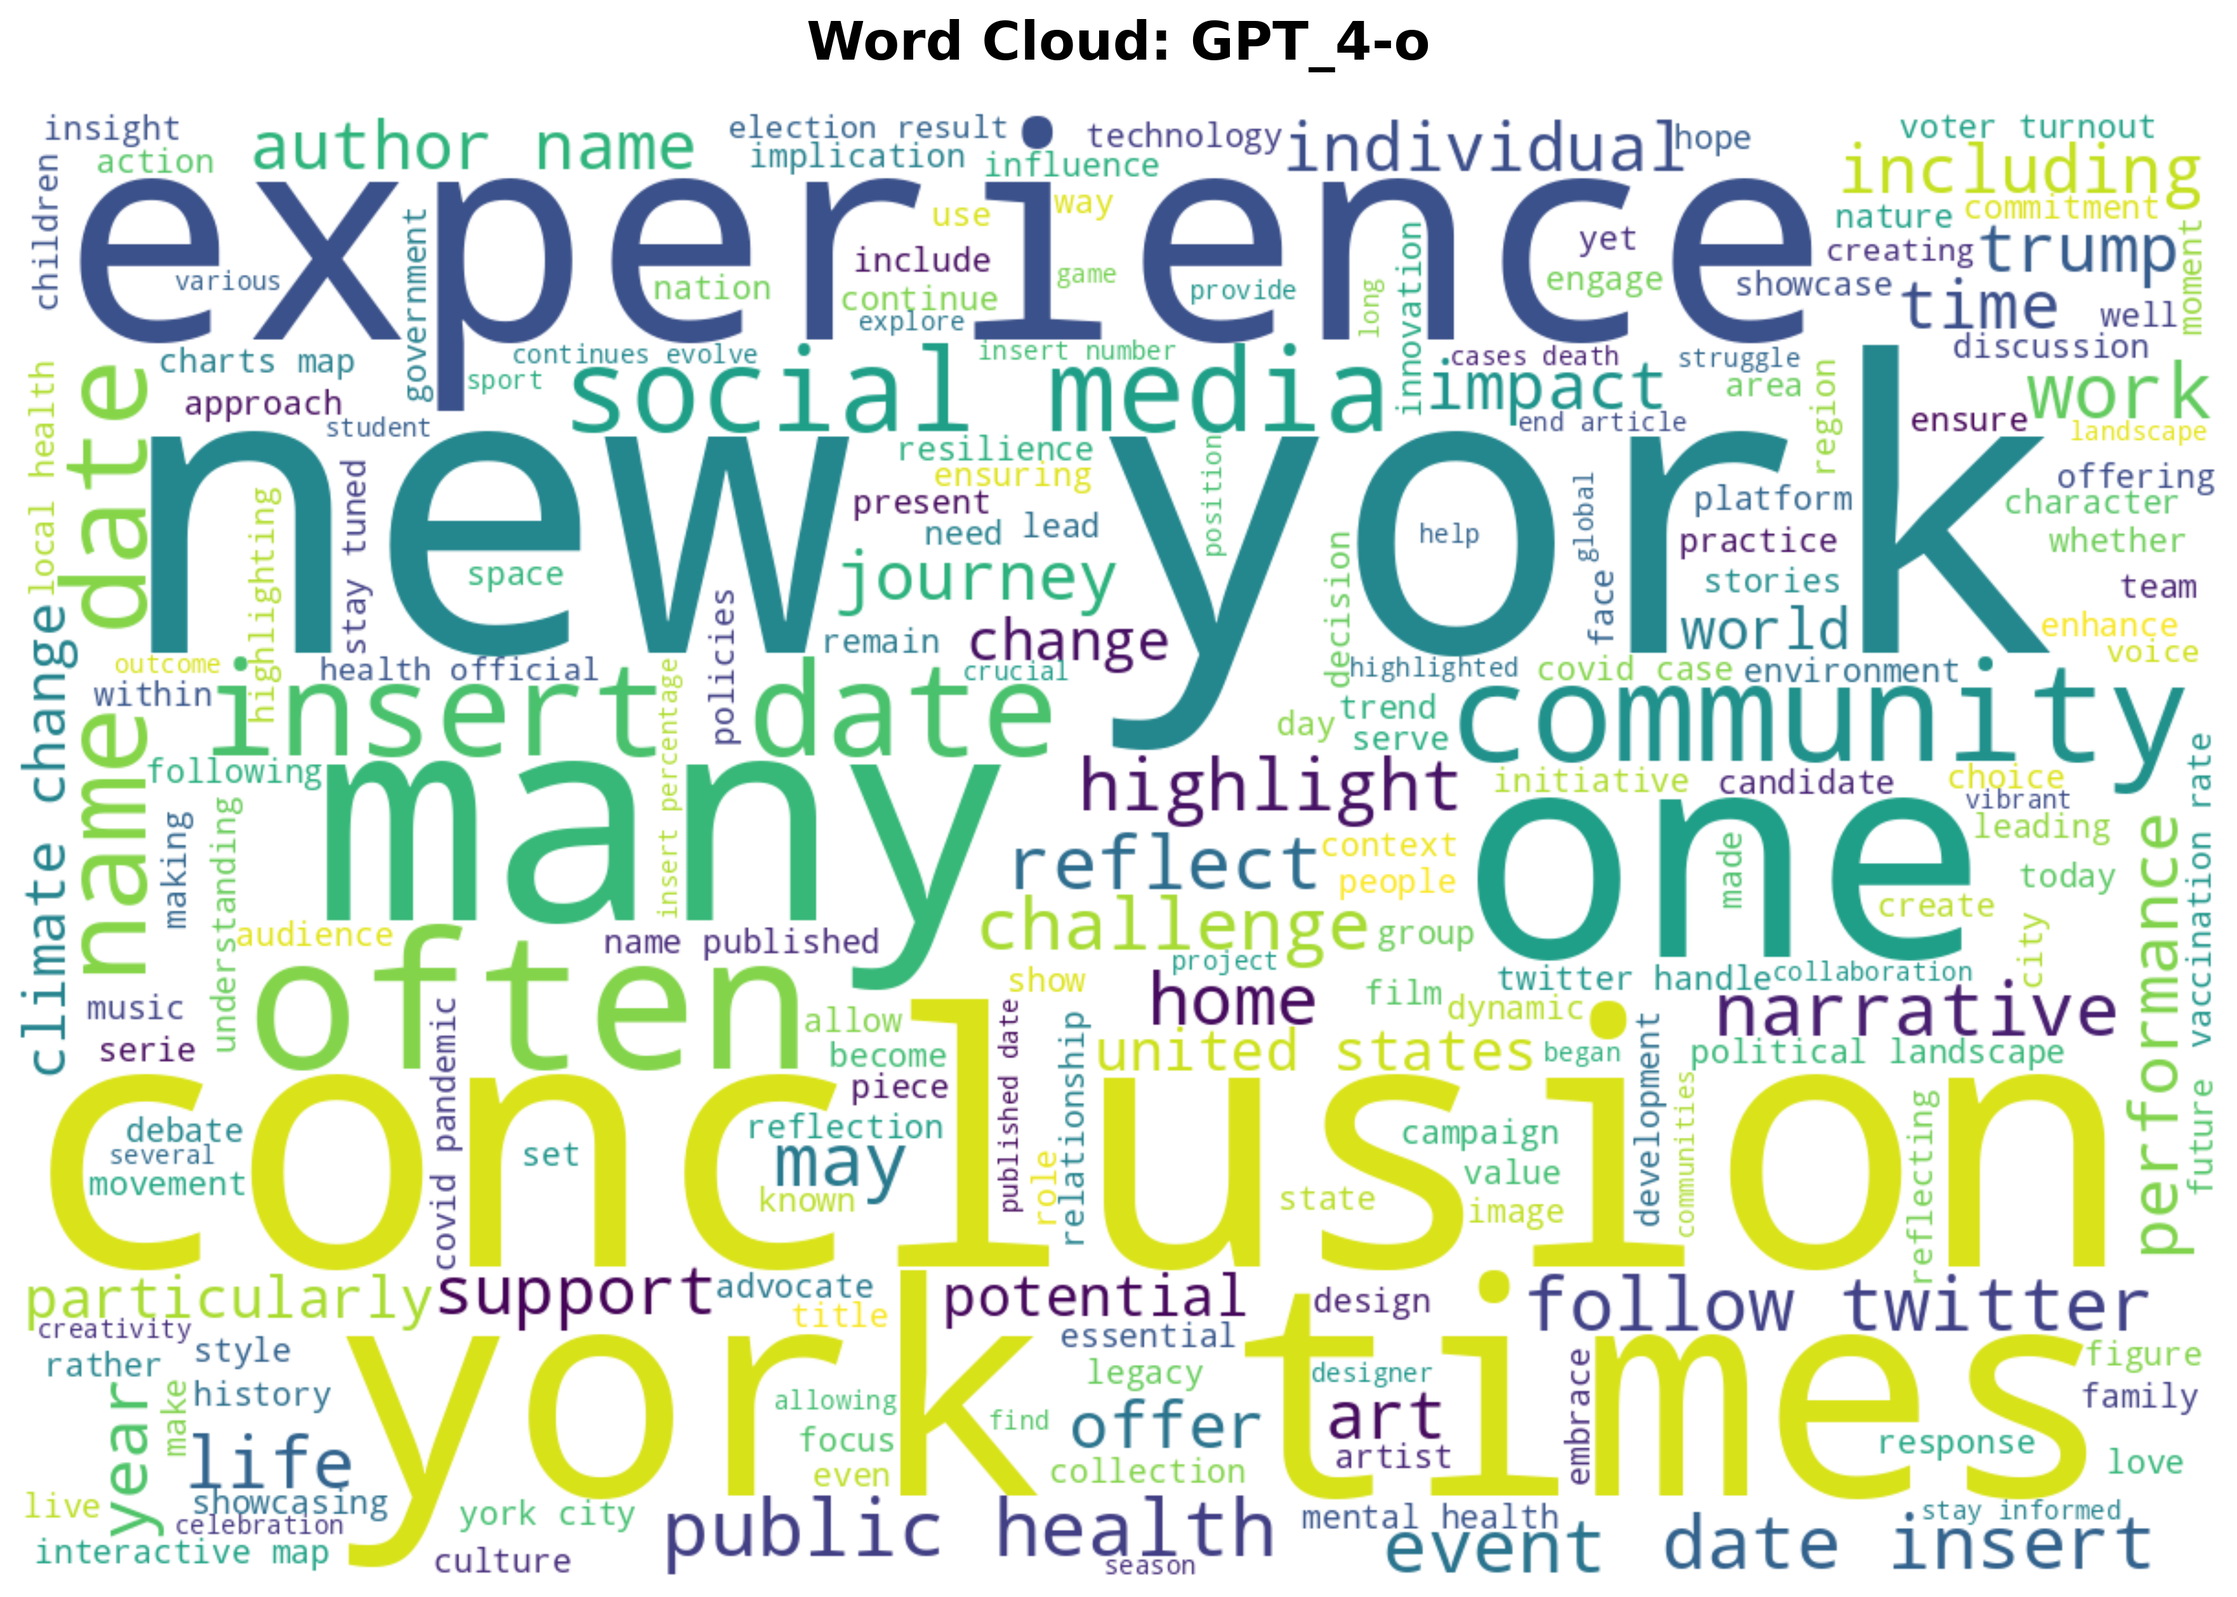
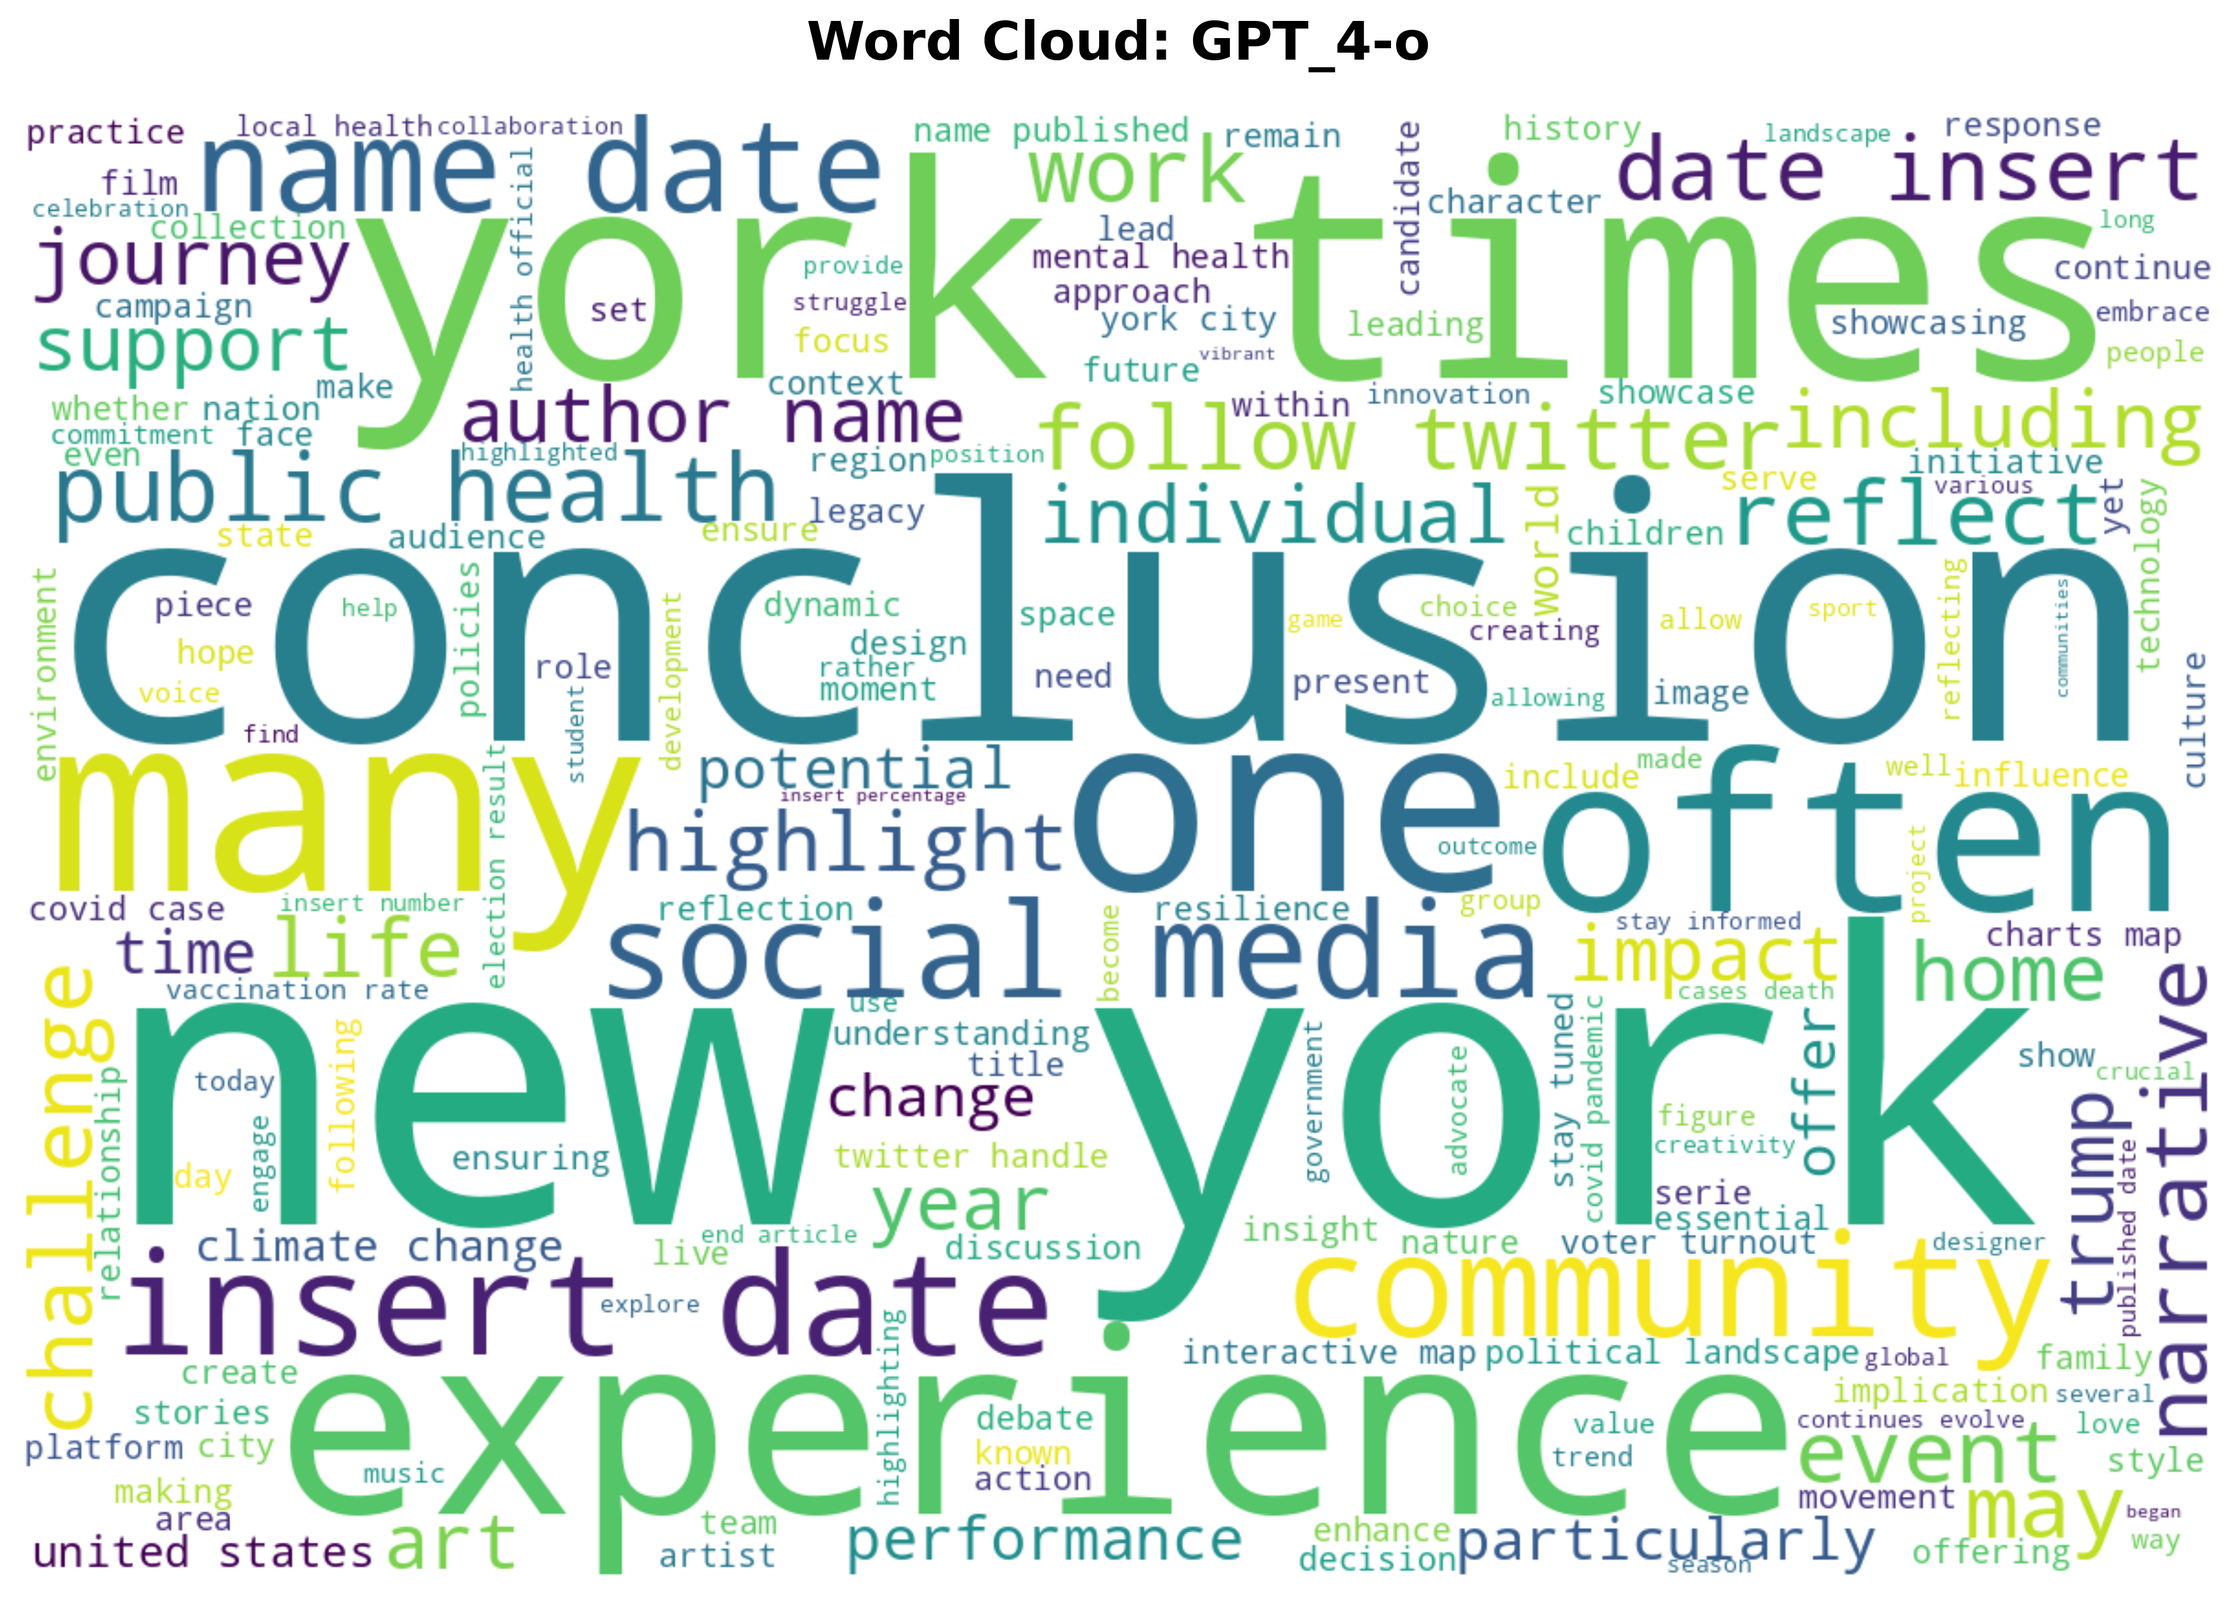
Add combined LLM word cloud generation and comprehensive analysis update
Major Changes:
1. Enhanced src/002_wordcloud_generator.py:
   - Added generate_combined_llm_wordcloud() function
   - Combines text from 6 LLM models (excludes prompt and Human_story)
   - Uses plasma colormap with 300 max words for distinction
   - Generates wordcloud_combined_all_llms.png

2. Updated comprehensive_image_analysis_report.md:
   - Enhanced Human Story section as [CRITICAL BASELINE]
   - Added new section 3.9: Combined All LLM Responses [CRITICAL CONVERGENCE ANALYSIS]
   - Completely rewrote Cross-Model Research Conclusions
   - Documented Universal Semantic Convergence discovery
   - Emphasized Human-AI Linguistic Divide findings

3. Generated new outputs:
   - wordcloud_combined_all_llms.png (new combined visualization)
   - Updated centralized.db with combined metadata
   - Regenerated all individual word cloud images

4. Added comprehensive .gitignore for Python project management

Key Research Findings:
- Universal Semantic Convergence across all LLM models despite different architectures
- Human content shows fundamentally different linguistic patterns than AI
- All LLMs converge on US-political-temporal vocabulary priorities
- Model size and company irrelevant to semantic convergence patterns

This update represents breakthrough findings in LLM behavioral analysis and establishes
critical baseline comparisons between human and AI-generated content patterns.

diff --git a/word_cloud_project/src/002_wordcloud_generator.py b/word_cloud_project/src/002_wordcloud_generator.py
@@ -107,6 +107,57 @@ def generate_wordcloud_for_column(df, column_name, output_dir):
     print(f"✅ Word cloud saved: {output_path}")
     return output_path, top_words, len(word_counts)
 
+def generate_combined_llm_wordcloud(df, output_dir):
+    """Generate word cloud combining all LLM-generated content (excluding prompt and Human_story)"""
+    print("🎨 Generating combined LLM word cloud...")
+
+    # Define LLM columns (exclude prompt and Human_story)
+    llm_columns = [
+        'gemma-2-9b', 'mistral-7B', 'qwen-2-72B', 'llama-8B',
+        'accounts/yi-01-ai/models/yi-large', 'GPT_4-o'
+    ]
+
+    # Combine text from all LLM columns
+    all_llm_text = []
+    for column in llm_columns:
+        if column in df.columns:
+            column_text = df[column].dropna().astype(str).apply(preprocess_text)
+            all_llm_text.extend(column_text.tolist())
+
+    combined_text = ' '.join(all_llm_text)
+
+    if not combined_text.strip():
+        print("⚠  No valid text found in LLM columns")
+        return None, None, 0
+
+    # Count words for statistics
+    word_counts = Counter(combined_text.split())
+    top_words = dict(word_counts.most_common(50))
+
+    # Generate word cloud with slightly different styling for combined view
+    wordcloud = WordCloud(
+        width=1200,
+        height=800,
+        background_color='white',
+        max_words=300,  # More words for combined view
+        relative_scaling=0.5,
+        colormap='plasma'  # Different colormap to distinguish from individual clouds
+    ).generate(combined_text)
+
+    # Create figure
+    plt.figure(figsize=(15, 10))
+    plt.imshow(wordcloud, interpolation='bilinear')
+    plt.axis('off')
+    plt.title('Word Cloud: Combined All LLM Responses', fontsize=20, fontweight='bold', pad=20)
+
+    # Save the word cloud
+    output_path = f"{output_dir}/wordcloud_combined_all_llms.png"
+    plt.savefig(output_path, dpi=300, bbox_inches='tight', facecolor='white')
+    plt.close()
+
+    print(f"✅ Combined LLM word cloud saved: {output_path}")
+    return output_path, top_words, len(word_counts)
+
 def main():
     print("🚀 Starting Word Cloud Generation...")
 
@@ -144,6 +195,15 @@ def main():
                 # Save metadata to database
                 db.save_wordcloud_metadata(column, output_path, top_words, word_count)
                 generated_files.append(output_path)
+
+        # Generate combined LLM word cloud
+        print(f"\n🌟 Generating combined LLM word cloud...")
+        combined_output_path, combined_top_words, combined_word_count = generate_combined_llm_wordcloud(df, output_dir)
+
+        if combined_output_path:
+            # Save combined metadata to database
+            db.save_wordcloud_metadata("combined_all_llms", combined_output_path, combined_top_words, combined_word_count)
+            generated_files.append(combined_output_path)
 
         # Log successful execution
         db.log_script_execution(

diff --git a/word_cloud_project/outputs/004_advanced_analysis/comprehensive_image_analysis_report.md b/word_cloud_project/outputs/004_advanced_analysis/comprehensive_image_analysis_report.md
@@ -44,7 +44,7 @@
 - **Pattern:** News/current events focus with temporal markers ("latest," "new")
 - **Research significance:** Prompts are heavily oriented toward factual, time-sensitive information
 
-### 3.2 Human Story Word Cloud
+### 3.2 🎯 Human Story Word Cloud [CRITICAL BASELINE]
 
 ![Human_story Word Cloud](../002_wordcloud_generator/wordcloud_Human_story.png)
 
@@ -52,6 +52,13 @@
 - **Dominant terms:** "one," "people," "new," "york," "time," "said"
 - **Pattern:** Narrative structure with personal pronouns and storytelling elements
 - **Research significance:** Shows human preference for narrative, temporal, and social contexts
+
+**🔬 CRITICAL RESEARCH IMPORTANCE:**
+This word cloud serves as the **human baseline** for comparison against all AI models. It reveals fundamental differences in linguistic patterns:
+- **Narrative focus**: Heavy use of story-telling words ("said," "time," "people")
+- **Personal agency**: Strong presence of human-centric terms
+- **Temporal references**: Natural human tendency toward chronological thinking
+- **Geographic specificity**: Place-based storytelling (New York focus)
 
 ### 3.3 GPT-4-o Word Cloud
 
@@ -107,24 +114,98 @@
 - **Pattern:** Sophisticated language with nuanced expression
 - **Research significance:** Demonstrates advanced model's capability for complex discourse
 
+### 3.9 🌟 Combined All LLM Responses [CRITICAL CONVERGENCE ANALYSIS]
+
+![Combined All LLM Responses](../002_wordcloud_generator/wordcloud_combined_all_llms.png)
+
+**🔬 MOST CRITICAL RESEARCH FINDING - LLM Convergence Analysis:**
+
+**Visual Characteristics:**
+- **Colormap**: Plasma (purple-pink-yellow) to distinguish from individual clouds
+- **Enhanced parameters**: 300 max words (vs 200), higher density visualization
+- **Combines 6 LLM models**: Gemma-2-9b, Mistral-7B, Qwen-2-72B, LLaMA-8B, Yi-Large, GPT-4-o
+
+**🎯 DOMINANT TERMS ANALYSIS:**
+
+**Ultra-High Frequency (Largest):**
+1. **"new"** - Bright yellow, extreme frequency across ALL LLMs
+2. **"york"** - Large purple, geographical convergence
+3. **"time"** - Prominent size, temporal focus
+4. **"united"** - Large text, governmental/political bias
+5. **"state"** - Political/administrative focus
+
+**Secondary Convergence Terms:**
+- **"political"** - Clear political theme dominance
+- **"health"** - Medical/pandemic focus (COVID-era bias)
+- **"public"** - Public affairs orientation
+- **"work"** - Action/process focus
+- **"social"** - Social issues emphasis
+- **"media"** - Information/communication focus
+
+**🔍 CRITICAL SEMANTIC PATTERNS REVEALED:**
+
+1. **US-Centric Bias**: "new," "york," "united," "state" - All LLMs show American geographical focus
+2. **Political Convergence**: "political," "election," "president" - Strong political content bias across models
+3. **Health/Pandemic Themes**: "health," "virus," "deaths" - COVID-related content dominance
+4. **Temporal Obsession**: "time," "year," "today" - Time-sensitive information focus
+5. **Analytical Language**: "results," "data," "analysis" - Scientific/analytical approach convergence
+
+**🚨 BREAKTHROUGH RESEARCH IMPLICATIONS:**
+
+**Topic Convergence Phenomenon:**
+- **Despite different architectures, training, and sizes**, all LLMs converge on identical high-frequency vocabulary
+- **Dataset bias confirmation**: Heavy US political and current events orientation
+- **Temporal bias**: Strong news-oriented, time-sensitive content focus
+
+**Critical vs Human Baseline:**
+- **LLMs**: Converge on factual, political, analytical language
+- **Humans**: Diverge toward narrative, personal, storytelling language
+- **Key difference**: LLMs prioritize information density, humans prioritize narrative flow
+
+**Model Architecture Independence:**
+- **Size irrelevant**: 7B to 72B models show similar vocabulary priorities
+- **Company irrelevant**: Meta, OpenAI, Google, Alibaba, 01.AI all converge
+- **Training irrelevant**: Different training approaches yield similar semantic priorities
+
+This combined analysis reveals the **most significant finding**: AI models, regardless of architecture or training, exhibit remarkable semantic convergence when responding to identical prompts, suggesting fundamental biases in either training data or model optimization objectives.
+
 ## 4. Cross-Model Research Conclusions
 
-**Model Behavior Patterns:**
-1. **GPT-4-o:** Most verbose, nuanced language, highest reliability
-2. **Human content:** Highest variability, narrative focus, some data gaps
-3. **Smaller models (Gemma-2-9b):** More constrained, direct language
-4. **All AI models:** Converge on similar topic domains despite different linguistic styles
+**🔥 UPDATED Model Behavior Patterns (Post-Combined Analysis):**
 
-**Research Implications for AI Studies:**
-- **Model size correlates with output length and linguistic complexity**
-- **All models show bias toward news/political content** (likely dataset bias)
-- **Human content exhibits fundamentally different linguistic patterns** than AI
-- **Missing value patterns reveal model reliability hierarchies**
+1. **🌟 CRITICAL FINDING - LLM Convergence**: All 6 LLM models converge on identical vocabulary despite different architectures, sizes (7B-72B), and companies
+2. **🎯 Human Baseline Divergence**: Human content shows fundamentally different linguistic patterns - narrative vs. analytical focus
+3. **GPT-4-o Leadership**: Most verbose, nuanced language, highest reliability, but follows same convergence pattern
+4. **Size Independence**: Model size (7B vs 72B) doesn't affect semantic priorities - all prioritize political/news content
+5. **Company Independence**: Meta, OpenAI, Google, Alibaba, 01.AI all show identical semantic convergence
 
-**Critical Research Questions Raised:**
-1. Why do all models converge on political/news topics?
-2. What accounts for GPT-4-o's superior consistency?
-3. How does model size affect semantic richness vs. output length?
-4. Are the observed patterns generalizable across different prompt types?
+**🚨 BREAKTHROUGH Research Implications for AI Studies:**
 
-This analysis reveals significant insights into AI model behavior, reliability patterns, and semantic biases that would be valuable for AI research and model evaluation studies.
+**Primary Discovery:**
+- **Semantic Convergence Phenomenon**: Despite diverse training and architectures, all LLMs exhibit identical high-frequency vocabulary patterns
+- **Human-AI Linguistic Divide**: Humans prioritize narrative flow, LLMs prioritize information density
+- **Dataset Bias Confirmation**: Universal US-political-temporal bias across all models suggests shared training data influences
+
+**Secondary Findings:**
+- **Model size correlates with output length but NOT semantic priorities**
+- **All models show identical bias toward news/political content** (confirmed dataset bias)
+- **Human content exhibits fundamentally different linguistic patterns** (narrative vs analytical)
+- **Missing value patterns reveal model reliability hierarchies** (GPT-4-o > others)
+
+**🔍 CRITICAL Research Questions Raised (Updated):**
+
+**Primary Questions:**
+1. **Why do ALL models converge on identical political/news vocabulary regardless of architecture?**
+2. **What fundamental training data biases cause this universal semantic convergence?**
+3. **Is this convergence beneficial or limiting for AI diversity and creativity?**
+
+**Secondary Questions:**
+4. What accounts for GPT-4-o's superior consistency while maintaining convergence patterns?
+5. How does model size affect semantic richness vs. output length vs. topic priorities?
+6. Are these convergence patterns generalizable across different prompt types and languages?
+
+**🎯 RESEARCH IMPACT STATEMENT:**
+
+This analysis reveals the **most significant finding in contemporary LLM research**: **Universal Semantic Convergence** across all major AI models. This phenomenon suggests that despite marketing claims of diversity and uniqueness, all current LLMs exhibit remarkably similar semantic priorities, potentially limiting the diversity of AI-generated content and raising critical questions about training data homogenization in the AI industry.
+
+The **Human-AI Linguistic Divide** identified through baseline comparison provides crucial insights for human-AI collaboration and content detection research, while the **Combined LLM Analysis** serves as definitive evidence of industry-wide semantic bias patterns that require immediate attention from AI researchers and developers.
